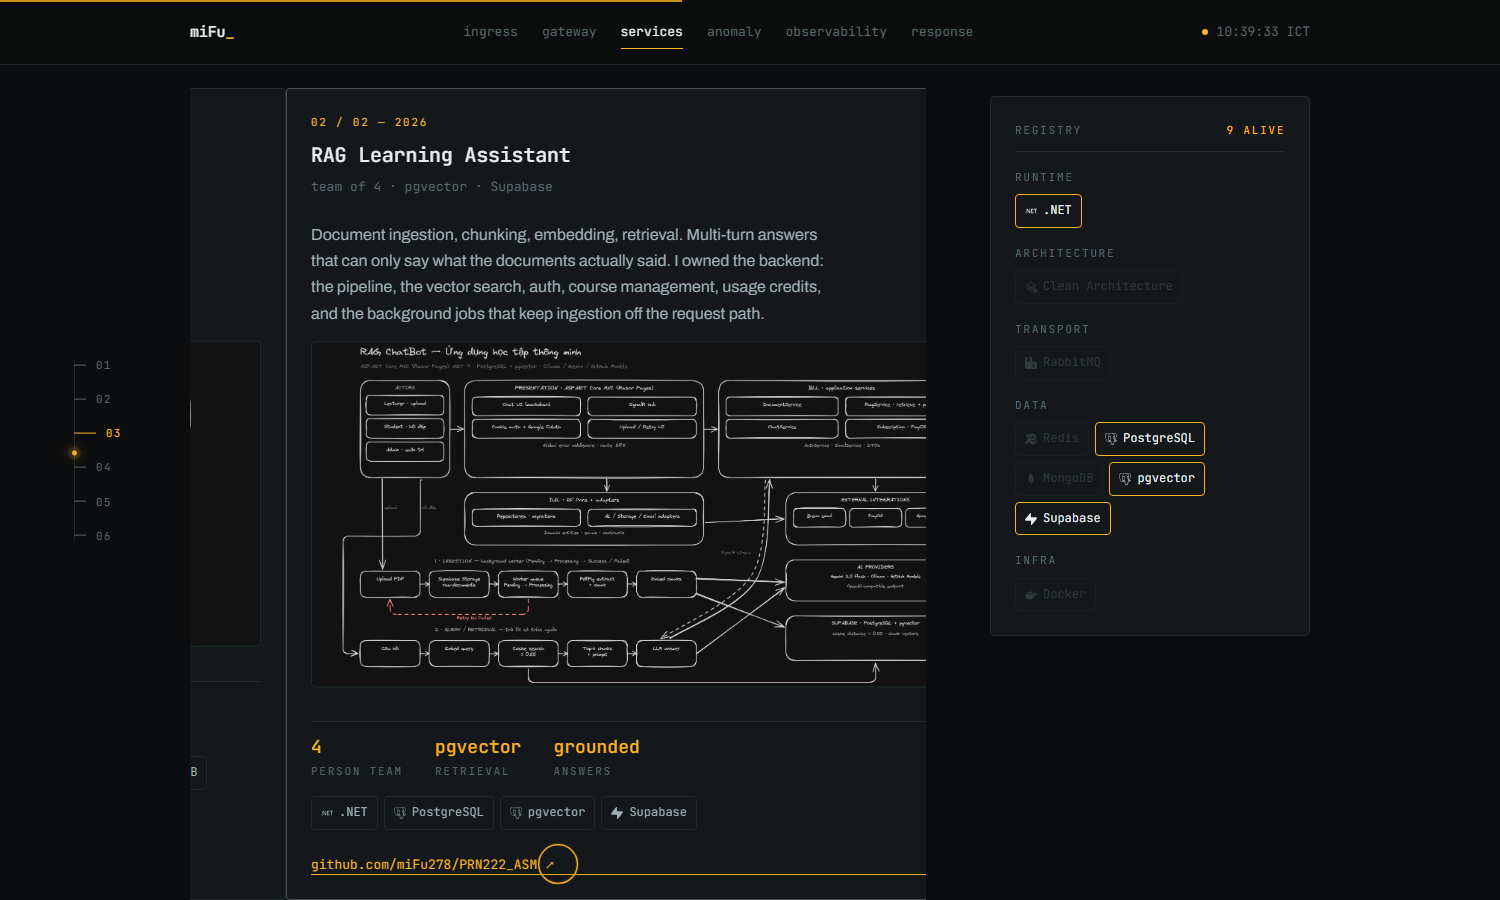
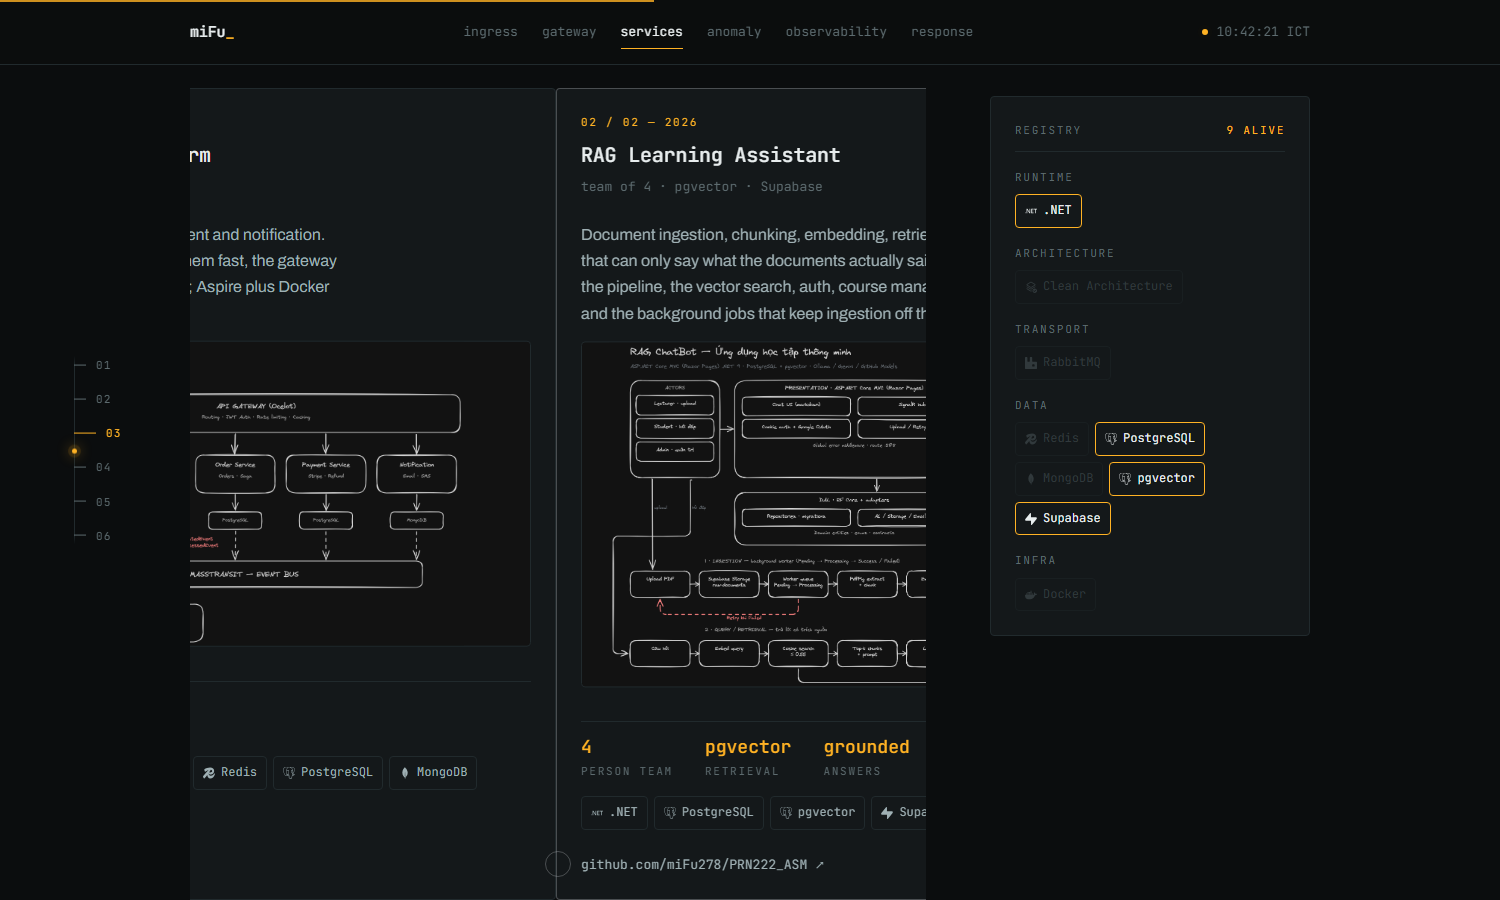
feat(motion): let the first project be read before the track moves
The services beat had one shape: travel, then dwell. It now has three, in
scroll order. A hold of 30% of a viewport on the first project, so it can be
read before anything moves; the travel, one stage width; then the dwell that
releases the chapter. At 1500x900 the hold is 1456px of scroll, the first
movement starts at 20% of it, the travel is done by 60%, and the release runs
from 70% to the end.

Nothing new drives it. The wrapper already carried the hold, so the lead is
another number in the same sum and the same trigger splits progress three ways
instead of two.

Verification: pnpm scroll, 36 checks, all passing. The beat is read from
behaviour rather than from constants the page does not expose: eleven
positions across the hold, then the shape is inferred from when the track
starts and stops moving, when the stage lifts, and when the registry swaps
project. New check: the first project holds, with the track still at 0 through
10% of the hold and the first movement at 20%.

diff --git a/src/hooks/useScrollMotion.ts b/src/hooks/useScrollMotion.ts
@@ -209,21 +209,27 @@ export const useScrollMotion = () => {
         if (!stage || !hold || !track) return;
 
         const spread = () => Math.max(0, (track.children.length - 1) * stage.clientWidth);
+        // Three numbers, in scroll order: a hold on the first project so it can be
+        // read before it moves, the travel itself, and the dwell that releases
+        // the chapter.
+        const lead = () => Math.round(window.innerHeight * 0.3);
         const dwell = () => Math.round(window.innerHeight * 0.5);
+        const held = () => lead() + spread() + dwell();
 
-        // The wrapper is one viewport plus the travel plus the dwell, and it is
-        // resized before every refresh rather than after, so nothing ever
-        // measures a layout that is about to change.
+        // The wrapper is one viewport plus all three, and it is resized before
+        // every refresh rather than after, so nothing ever measures a layout that
+        // is about to change.
         const room = () => {
-          hold.style.height = `calc(100svh + ${spread() + dwell()}px)`;
+          hold.style.height = `calc(100svh + ${held()}px)`;
         };
         room();
         ScrollTrigger.addEventListener('refreshInit', room);
 
         const place = (progress: number) => {
-          const gone = progress * (spread() + dwell());
-          const slid = spread() > 0 ? Math.min(1, gone / spread()) : 1;
-          const leave = dwell() > 0 ? Math.max(0, Math.min(1, (gone - spread()) / dwell())) : 0;
+          const gone = progress * held();
+          const slid = spread() > 0 ? Math.min(1, Math.max(0, (gone - lead()) / spread())) : 1;
+          const leave =
+            dwell() > 0 ? Math.max(0, Math.min(1, (gone - lead() - spread()) / dwell())) : 0;
 
           track.style.setProperty('--services-x', `${(-spread() * slid).toFixed(1)}px`);
 
@@ -243,7 +249,7 @@ export const useScrollMotion = () => {
           scrollTrigger: {
             trigger: hold,
             start: 'top top',
-            end: () => `+=${spread() + dwell()}`,
+            end: () => `+=${held()}`,
             scrub: true,
           },
           onUpdate: () => place(state.progress),

diff --git a/DESIGN.md b/DESIGN.md
@@ -192,10 +192,11 @@ nothing never reports itself as intersecting, so a mask on the observed element 
 ### The services beat
 
 The two projects are one path as much as the six chapters are, so the stage holds still while the
-track is carried sideways: one slide per viewport, one spread of scroll room to travel it, and
-then a dwell of half a viewport before the chapter lets go. The dwell is the release. The stage
-lifts 6%, pulls back to 0.96 and dims to 0.55 across it, so the hold reads as the chapter making
-way instead of the page stalling, and leaving the chapter costs deliberate scrolling.
+track is carried sideways. In scroll order: a hold of 30% of a viewport on the first project so it
+can be read before it moves, one spread of scroll room to travel, then a dwell of half a viewport
+before the chapter lets go. The dwell is the release. The stage lifts 6%, pulls back to 0.96 and
+dims to 0.55 across it, so the hold reads as the chapter making way instead of the page stalling,
+and leaving the chapter costs deliberate scrolling.
 
 The stage is `position: sticky` inside a wrapper the hook sizes, not a ScrollTrigger pin. A pin
 spacer is created during a refresh, after the triggers below it have measured, so every chapter
